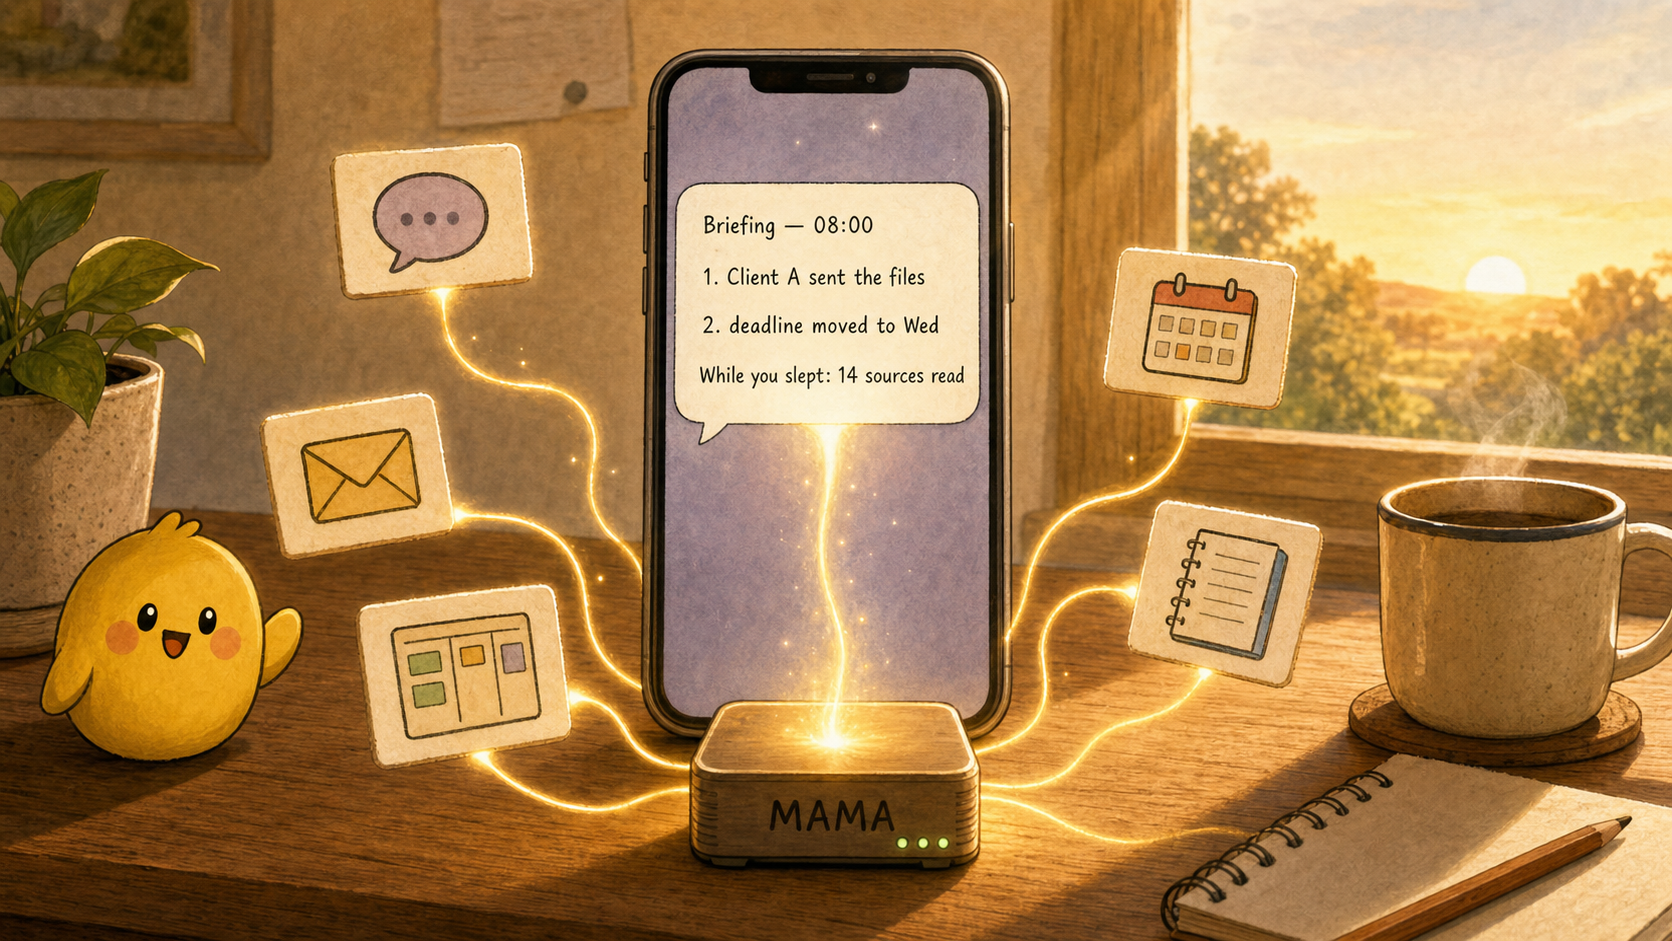
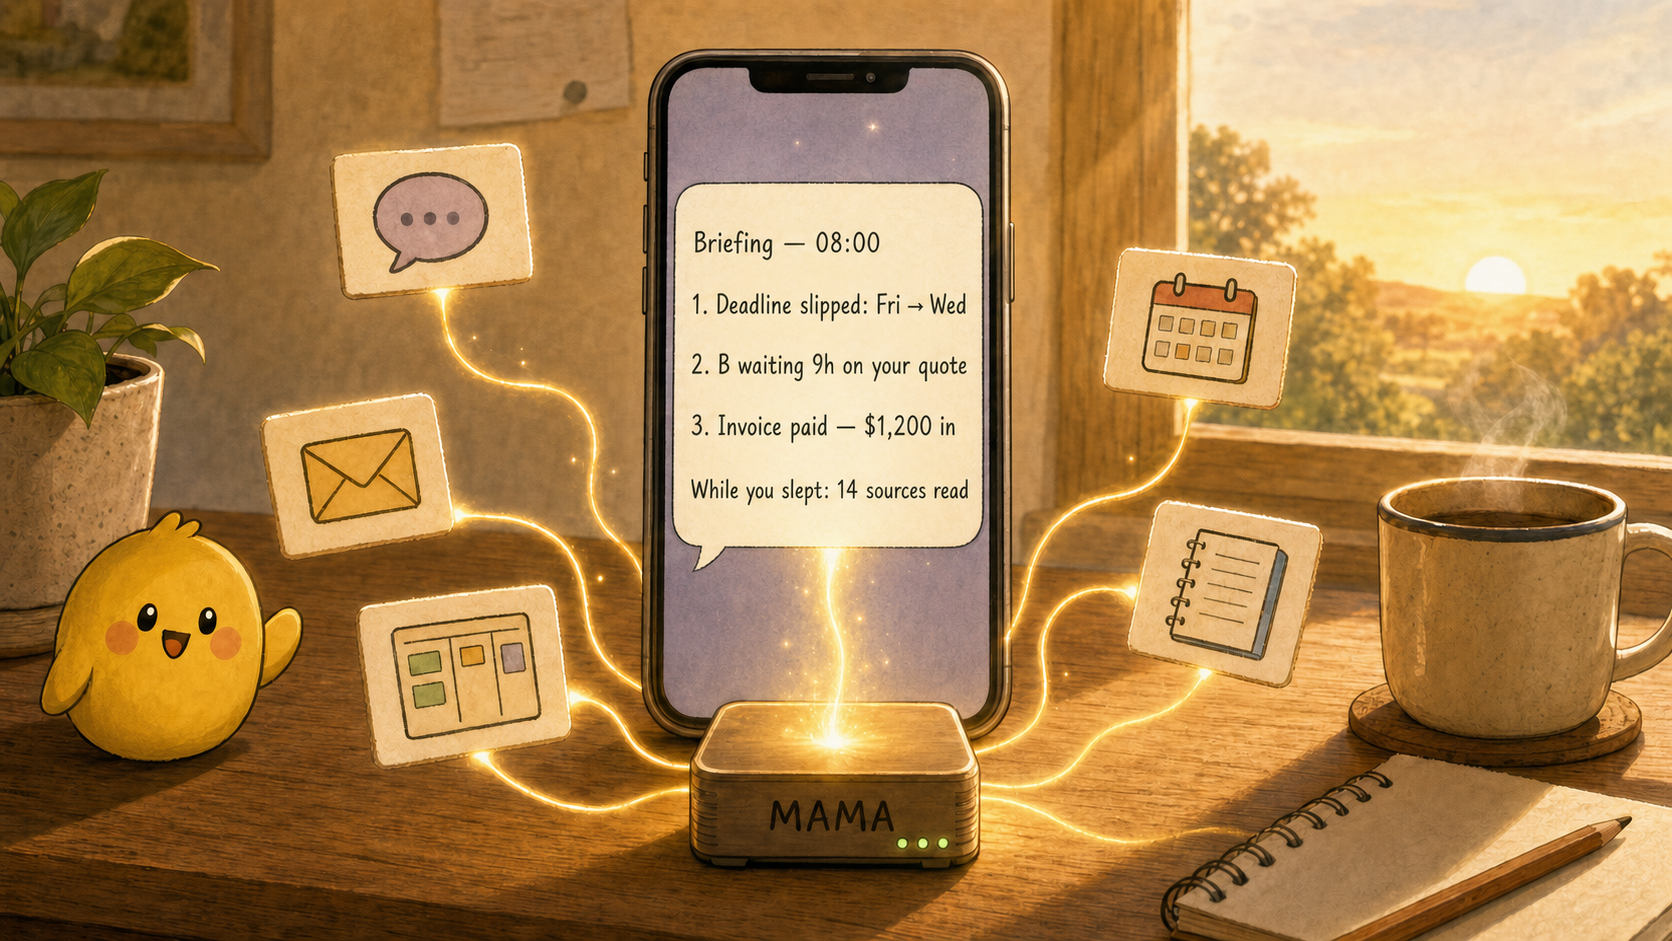
docs: briefing lines carry stakes now, everywhere the briefing appears
"Client A sent the files" has nothing at stake, and the owner said so. A
briefing line earns its place when something is riding on it: time lost
(deadline slipped Fri to Wed), a person waiting on YOU (9 hours on your
quote), money moving (invoice paid, $1,200 in). Three lines, three
different kinds, so it reads as an operator rather than an alarm feed.

The regenerated hero (Codex, same composition and style) renders all five
lines with zero garbling - inspected before wiring. The README example,
both alt texts, and the SVG mock now tell the identical story.

Claude-Session: https://claude.ai/code/session_01HeHgDc9QpXZH9x7hcc1Fq1

Changed region(s): [[0.3732, 0.2157, 0.5909, 0.678], [0.6842, 0.3698, 0.7153, 0.4006], [0.5598, 0.7705, 0.5909, 0.8013]]

diff --git a/docs/website/index.html b/docs/website/index.html
@@ -1020,7 +1020,7 @@
         <div class="hero-image">
           <img
             src="assets/mama-os-hero-briefing.png"
-            alt="An illustrated morning desk: channel cards (chat, mail, kanban, calendar, notes) send glowing threads into a small box labeled MAMA, which delivers a briefing to the phone: Briefing 08:00, Client A sent the files, deadline moved to Wed, while you slept 14 sources read."
+            alt="An illustrated morning desk: channel cards (chat, mail, kanban, calendar, notes) send glowing threads into a small box labeled MAMA, which delivers a briefing to the phone: deadline slipped Fri to Wed, B waiting 9h on your quote, invoice paid $1,200 in, while you slept 14 sources read."
           />
         </div>
         <div class="hero-actions">

diff --git a/README.md b/README.md
@@ -14,7 +14,7 @@ stays running around the clock — like Home Assistant or Plex, but its job is y
 channels. `mama start` brings it up. Its dashboard lives at `localhost:3847`. Its
 reports arrive in your chat app.
 
-![An illustrated morning desk: channel cards (chat, mail, kanban, calendar, notes) send glowing threads into a small box labeled MAMA, which delivers a briefing to the phone: Briefing 08:00, Client A sent the files, deadline moved to Wed, while you slept 14 sources read.](docs/website/assets/mama-os-hero-briefing.png)
+![An illustrated morning desk: channel cards (chat, mail, kanban, calendar, notes) send glowing threads into a small box labeled MAMA, which delivers a briefing to the phone: deadline slipped Fri to Wed, B waiting 9h on your quote, invoice paid $1,200 in, while you slept 14 sources read.](docs/website/assets/mama-os-hero-briefing.png)
 
 ## The product is a message that arrives
 
@@ -22,9 +22,9 @@ You pick the hours. At those hours, in Telegram, Slack, or Discord:
 
 ```text
 ■ Briefing — Wed 08:00
-1. Client A sent the revised files overnight                  → source
-2. The #alpha deadline moved from Friday to Wednesday         → source
-3. B's question about invoice terms is 14 hours unanswered    → source
+1. The #alpha deadline slipped: Friday → Wednesday            → source
+2. B has waited 9 hours for your quote                        → source
+3. Client A paid the invoice — $1,200 came in                 → source
 
 ■ Needs your action
 - Approve the revised scope before the 11:00 call             → thread
